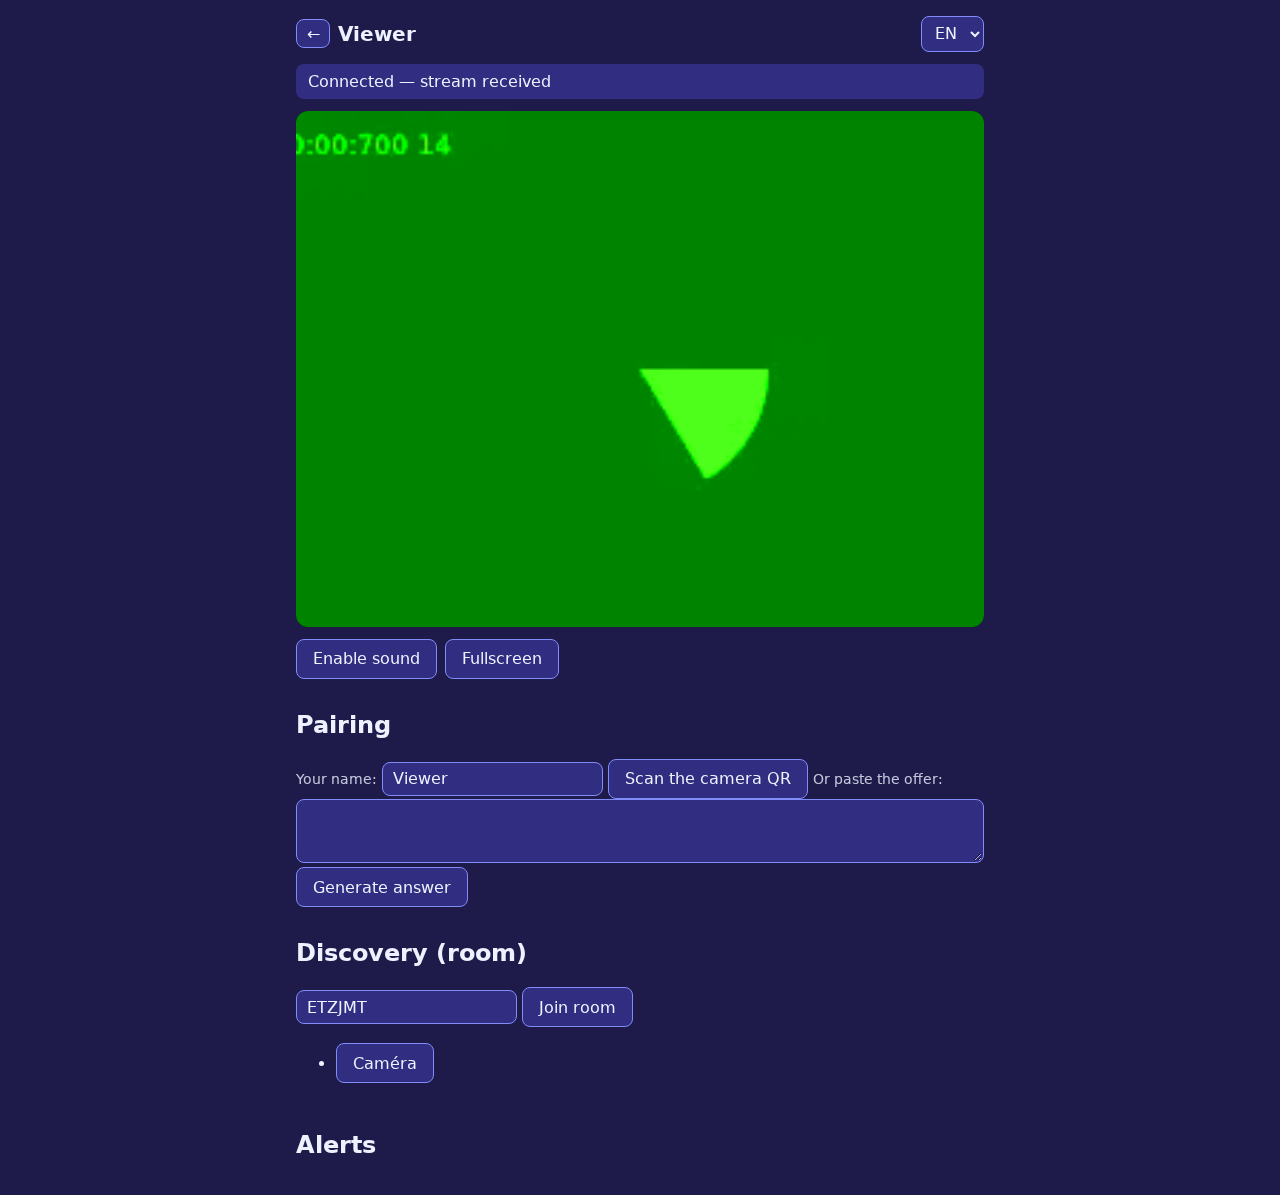
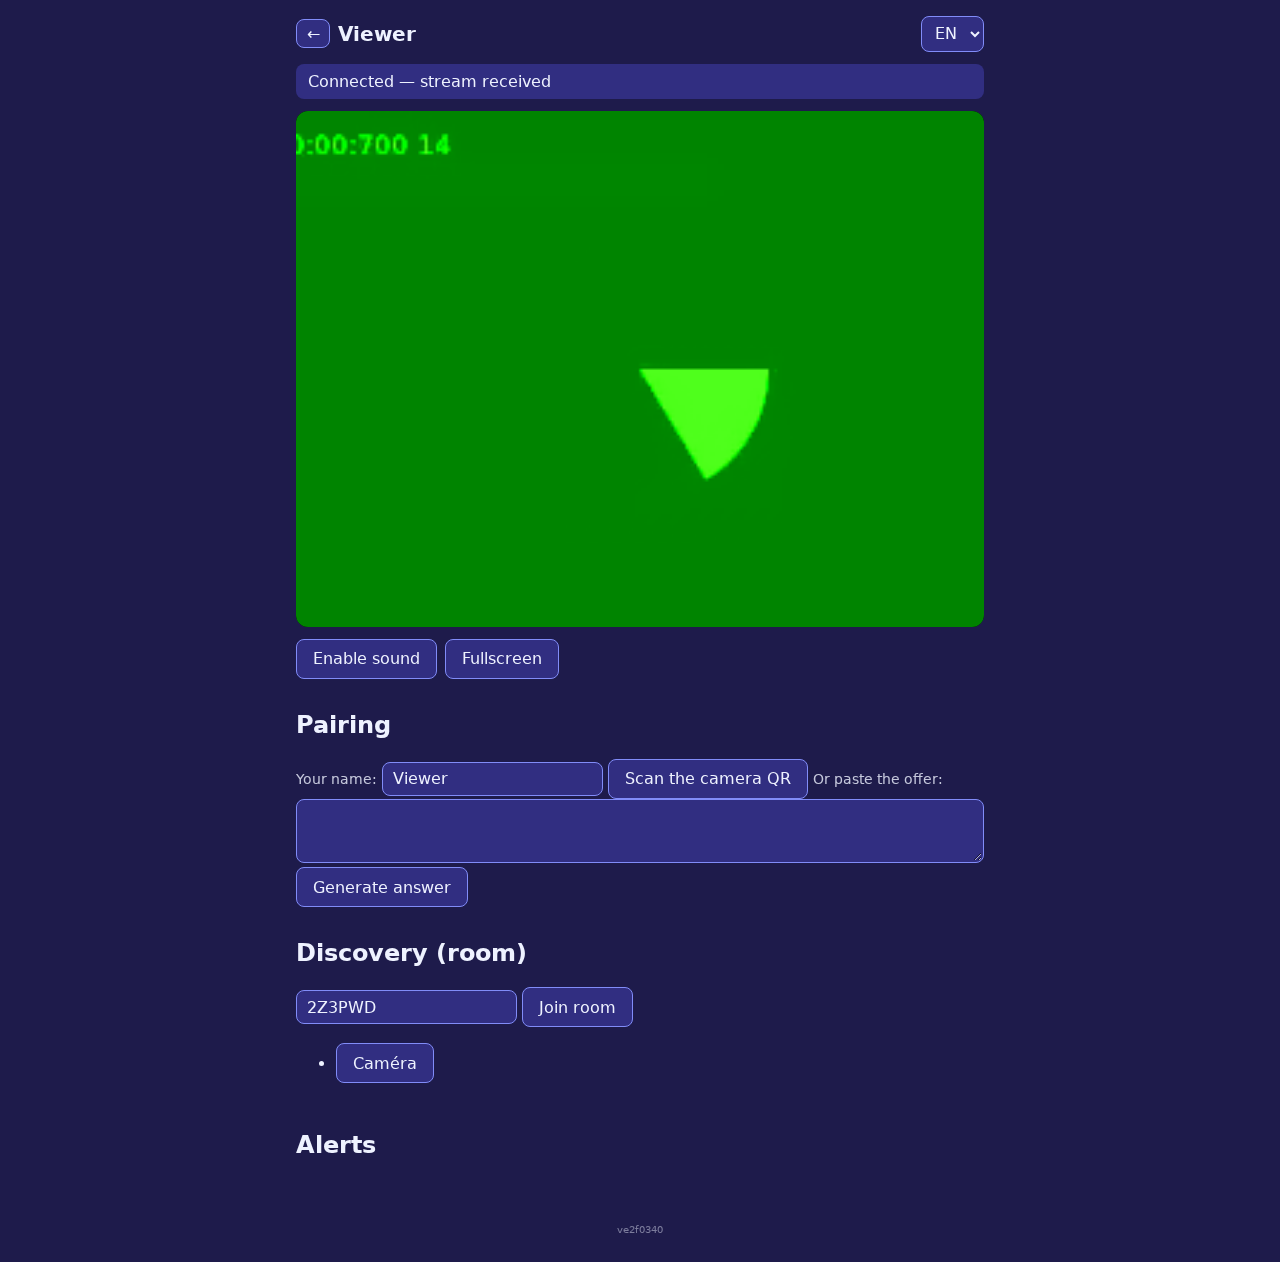
feat(I3.4): QR encore plus petit + PWA auto-mise à jour + badge de build
- slimSdpForQr : supprime ssrc/msid/rid/simulcast, ne garde que les candidats udp host ; appliqué à l'offre ET à la réponse QR (mungeSdpAggressive), QR affiché en 340px
- PWA : skipWaiting + clientsClaim, enregistrement SW manuel avec updateViaCache 'none' + update() à chaque chargement + rechargement auto quand un nouveau SW prend le contrôle (hors 1re install) : un vieux SW en cache ne bloque plus la mise à jour
- badge v<hash git> en bas de chaque page (define __BABYCAM_BUILD__) pour vérifier la version déployée
- tests unitaires (slim SDP, videoMimeFromSdp, build, pwa) + E2E qr-slim (payload < 1000 car., 1 seul QR décodé == payload, appairage complet A/V avec SDP allégé, badge) + 3 screenshots I3.4

Changed region(s): [[0.2188, 0.4954, 0.7812, 0.9598], [0.2188, 0.0, 0.7812, 0.1548], [0.5, 0.2787, 0.625, 0.4025]]

diff --git a/e2e/qr-slim.spec.ts b/e2e/qr-slim.spec.ts
@@ -1,0 +1,87 @@
+import { expect, test } from '@playwright/test';
+import jsQR from 'jsqr';
+import { decodeMessage, toQrChunks } from '../src/shared/signaling';
+import { shot } from './helpers';
+import { pairViaPaste, startCamera } from './pairing-helper';
+
+async function decodeCanvas(page: import('@playwright/test').Page, selector: string): Promise<string | null> {
+  const pixels = await page.evaluate((sel) => {
+    const canvas = document.querySelector(sel) as HTMLCanvasElement;
+    const ctx = canvas.getContext('2d')!;
+    const img = ctx.getImageData(0, 0, canvas.width, canvas.height);
+    return { data: Array.from(img.data), width: img.width, height: img.height };
+  }, selector);
+  const result = jsQR(new Uint8ClampedArray(pixels.data), pixels.width, pixels.height);
+  return result?.data ?? null;
+}
+
+test('I3.4 QR offre allégé : 1 seul QR décodable, SDP sans ssrc/extmap, candidats udp host, payload < 1000 car., badge de build', async ({ browser }) => {
+  const camCtx = await browser.newContext();
+  const cam = await camCtx.newPage();
+  await startCamera(cam);
+  const prev = await cam.locator('#offer-payload').inputValue().catch(() => '');
+  await cam.click('#pair-btn');
+  await cam.waitForFunction(
+    (p) => {
+      const el = document.querySelector<HTMLTextAreaElement>('#offer-payload');
+      return !!el && el.value.startsWith('BCAM1:') && el.value !== p;
+    },
+    prev,
+    { timeout: 30_000 },
+  );
+  const payload = await cam.locator('#offer-payload').inputValue();
+  expect(payload.length).toBeLessThan(1000);
+
+  const chunks = toQrChunks(payload);
+  expect(chunks.length).toBe(1);
+  const qrText = await decodeCanvas(cam, '#qr-canvas');
+  expect(qrText).toBe(chunks[0]);
+
+  const msg = decodeMessage(payload);
+  const lines = msg.sdp.split('\r\n');
+  expect(lines.find((l) => l.startsWith('m=video'))!.split(' ').slice(3)).toHaveLength(1);
+  expect(lines.find((l) => l.startsWith('m=audio'))!.split(' ').slice(3)).toHaveLength(1);
+  expect(msg.sdp).toContain('opus');
+  expect(msg.sdp).not.toContain('a=extmap:');
+  expect(msg.sdp).not.toContain('a=ssrc');
+  expect(msg.sdp).not.toContain('a=msid');
+  const cands = lines.filter((l) => l.startsWith('a=candidate:'));
+  expect(cands.length).toBeGreaterThan(0);
+  for (const c of cands) {
+    expect(c).toMatch(/\sudp\s/);
+    expect(c).toContain('typ host');
+  }
+
+  await expect(cam.locator('#build-badge')).toHaveText(/^v[0-9a-f]{7,}$/);
+  await shot(cam, 'I3.4-camera-qr-slim');
+  await camCtx.close();
+});
+
+test('I3.4 appairage complet avec SDP allégé (offre + réponse) : flux A/V OK', async ({ browser }) => {
+  const camCtx = await browser.newContext();
+  const viewCtx = await browser.newContext();
+  const cam = await camCtx.newPage();
+  const view = await viewCtx.newPage();
+  await startCamera(cam);
+  await pairViaPaste(cam, view);
+
+  const answer = await view.locator('#answer-payload').inputValue();
+  expect(answer.length).toBeLessThan(1000);
+  const amsg = decodeMessage(answer);
+  expect(amsg.sdp).not.toContain('a=ssrc');
+  expect(amsg.sdp).not.toContain('a=extmap:');
+
+  await expect(cam.locator('#viewers li')).toHaveCount(1);
+  await expect(cam.locator('#viewers li')).toContainText('Viewer');
+  await expect(view.locator('#status')).toContainText(/Connecté|Connected/i);
+  const kinds = await view.evaluate(() => {
+    const video = document.querySelector<HTMLVideoElement>('#remote')!;
+    return (video.srcObject as MediaStream).getTracks().map((track) => track.kind).sort();
+  });
+  expect(kinds).toEqual(['audio', 'video']);
+
+  await shot(cam, 'I3.4-camera-paired');
+  await shot(view, 'I3.4-viewer-stream');
+  await camCtx.close();
+  await viewCtx.close();
+});

diff --git a/src/shared/sdp.test.ts b/src/shared/sdp.test.ts
@@ -1,5 +1,5 @@
 import { describe, expect, it } from 'vitest';
-import { filterSdpByVideoCodec, mungeSdpAggressive } from './sdp';
+import { filterSdpByVideoCodec, mungeSdpAggressive, slimSdpForQr, videoMimeFromSdp } from './sdp';
 
 const SDP = [
   'v=0',
@@ -84,7 +84,7 @@ describe('mungeSdpAggressive (QR sans relais)', () => {
     expect(out).not.toContain('rtx');
     expect(out).not.toContain('a=extmap:');
     expect(out).toContain('a=mid:0');
-    expect(out).toContain('a=ssrc:1001 cname:abc');
+    expect(out).not.toContain('a=ssrc');
     expect(out).toContain('a=ice-ufrag:xyz');
   });
 
@@ -93,5 +93,60 @@ describe('mungeSdpAggressive (QR sans relais)', () => {
     const mVideo = out.split('\r\n').find((l) => l.startsWith('m=video'))!;
     expect(mVideo).toBe('m=video 9 UDP/TLS/RTP/SAVPF 96 97 98 99');
     expect(out).not.toContain('a=extmap:');
+  });
+});
+
+const SDP_CANDS = [
+  'v=0',
+  'm=video 9 UDP/TLS/RTP/SAVPF 96',
+  'a=rtpmap:96 VP8/90000',
+  'a=fingerprint:sha-256 AB:CD',
+  'a=ice-ufrag:xyz',
+  'a=mid:0',
+  'a=group:BUNDLE 0',
+  'a=msid-semantic: WMS',
+  'a=ssrc:1001 cname:abc',
+  'a=ssrc:1001 msid:track1',
+  'a=ssrc-group:FID 1001 1002',
+  'a=simulcast:send rid=1',
+  'a=rid:1 send',
+  'a=candidate:1 1 udp 2122260223 192.168.1.42 54321 typ host generation 0',
+  'a=candidate:2 1 tcp 1518280447 192.168.1.42 9 typ host generation 0',
+  'a=candidate:3 1 udp 1677729535 203.0.113.5 54321 typ srflx raddr 192.168.1.42 rport 54321 generation 0',
+  'a=end-of-candidates',
+].join('\r\n');
+
+describe('slimSdpForQr', () => {
+  it('supprime ssrc/msid/rid/simulcast et ne garde que les candidats udp host', () => {
+    const out = slimSdpForQr(SDP_CANDS);
+    expect(out).not.toContain('a=ssrc');
+    expect(out).not.toContain('a=msid');
+    expect(out).not.toContain('a=rid:');
+    expect(out).not.toContain('a=simulcast');
+    expect(out).toContain('a=fingerprint:sha-256 AB:CD');
+    expect(out).toContain('a=ice-ufrag:xyz');
+    expect(out).toContain('a=mid:0');
+    expect(out).toContain('a=group:BUNDLE 0');
+    expect(out).toContain('a=candidate:1 1 udp 2122260223 192.168.1.42 54321 typ host generation 0');
+    expect(out).not.toContain('tcp');
+    expect(out).not.toContain('srflx');
+    expect(out).toContain('a=end-of-candidates');
+  });
+});
+
+describe('videoMimeFromSdp', () => {
+  it('retourne le premier codec vidéo de la section m=video', () => {
+    expect(videoMimeFromSdp(SDP_FULL)).toBe('video/vp8');
+    expect(videoMimeFromSdp('v=0\r\nm=audio 9 UDP/TLS/RTP/SAVPF 111\r\na=rtpmap:111 opus/48000/2')).toBeUndefined();
+  });
+});
+
+describe('mungeSdpAggressive (slim QR)', () => {
+  it('applique aussi le slimming (ssrc supprimé, candidats filtrés)', () => {
+    const out = mungeSdpAggressive(SDP_CANDS, 'video/VP8');
+    expect(out.split('\r\n').find((l) => l.startsWith('m=video'))).toBe('m=video 9 UDP/TLS/RTP/SAVPF 96');
+    expect(out).not.toContain('a=ssrc');
+    expect(out).not.toContain('tcp');
+    expect(out).not.toContain('srflx');
   });
 });

diff --git a/src/pages/viewer/main.ts b/src/pages/viewer/main.ts
@@ -2,7 +2,9 @@ import '../../shared/style.css';
 import { applyTranslations, initLangSelect, t } from '../../shared/i18n';
 import { createChunkCollector, decodeMessage, decodeRoom, encodeMessage, toQrChunks, type SignalMessage } from '../../shared/signaling';
 import { QrScanner } from '../../shared/scanner';
-import { QrCarousel, qs } from '../../shared/ui';
+import { QrCarousel, qs, setBuildBadge } from '../../shared/ui';
+import { registerPwa } from '../../shared/pwa';
+import { mungeSdpAggressive, videoMimeFromSdp } from '../../shared/sdp';
 import { iceServersFromLocation, ViewerPeer, type DataMessage } from '../../shared/webrtc';
 import { playAlertSound, pushAlertHistory, showAlertBanner, vibrate } from '../../shared/alerts';
 import { RelayClient, relayUrlFromLocation } from '../../shared/relay';
@@ -10,6 +12,8 @@ import { RelayClient, relayUrlFromLocation } from '../../shared/relay';
 applyTranslations();
 const langSelect = document.querySelector<HTMLSelectElement>('#lang-select');
 if (langSelect) initLangSelect(langSelect);
+registerPwa();
+setBuildBadge();
 
 const status = qs<HTMLParagraphElement>('#status');
 const remote = qs<HTMLVideoElement>('#remote');
@@ -127,7 +131,8 @@ async function applyOffer(): Promise<void> {
   peer = makePeer([]);
   try {
     const answer = await peer.acceptOffer(msg);
-    const message = encodeMessage(answer);
+    const slim = { ...answer, sdp: mungeSdpAggressive(answer.sdp, videoMimeFromSdp(msg.sdp)) };
+    const message = encodeMessage(slim);
     answerPayload.value = message;
     qrBoxAnswer.hidden = false;
     answerCarousel?.stop();

diff --git a/src/shared/sdp.ts b/src/shared/sdp.ts
@@ -59,6 +59,32 @@ export function filterSdpByVideoCodec(sdp: string, mimeType: string): string {
   return mungeSdp(sdp, { videoMime: mimeType });
 }
 
+const SLIM_DROP_PREFIXES = ['a=ssrc', 'a=msid', 'a=rid:', 'a=simulcast'];
+
+export function slimSdpForQr(sdp: string): string {
+  const out: string[] = [];
+  for (const line of sdp.split('\r\n')) {
+    if (SLIM_DROP_PREFIXES.some((p) => line.startsWith(p))) continue;
+    if (line.startsWith('a=candidate:') && (!/\sudp\s/.test(line) || !line.includes('typ host'))) continue;
+    out.push(line);
+  }
+  return out.join('\r\n');
+}
+
 export function mungeSdpAggressive(sdp: string, videoMime?: string): string {
-  return mungeSdp(sdp, { videoMime, audioMime: 'audio/opus', dropExtmap: true });
+  return slimSdpForQr(mungeSdp(sdp, { videoMime, audioMime: 'audio/opus', dropExtmap: true }));
+}
+
+export function videoMimeFromSdp(sdp: string): string | undefined {
+  let inVideo = false;
+  for (const line of sdp.split('\r\n')) {
+    if (line.startsWith('m=')) {
+      inVideo = line.startsWith('m=video');
+      continue;
+    }
+    if (!inVideo) continue;
+    const m = /^a=rtpmap:\d+\s+([^/\s]+)\/\d+/.exec(line);
+    if (m) return `video/${m[1].toLowerCase()}`;
+  }
+  return undefined;
 }

diff --git a/src/pages/camera/main.ts b/src/pages/camera/main.ts
@@ -2,7 +2,8 @@ import '../../shared/style.css';
 import { applyTranslations, initLangSelect, t } from '../../shared/i18n';
 import { WakeLockManager } from '../../shared/wakelock';
 import { createChunkCollector, decodeMessage, encodeMessage, encodeRoom, toQrChunks } from '../../shared/signaling';
-import { QrCarousel, qs } from '../../shared/ui';
+import { QrCarousel, qs, setBuildBadge } from '../../shared/ui';
+import { registerPwa } from '../../shared/pwa';
 import { QrScanner } from '../../shared/scanner';
 import { CameraPeers, iceServersFromLocation, type AlertKind } from '../../shared/webrtc';
 import { NoiseDetector } from '../../shared/detection/noise';
@@ -13,6 +14,8 @@ import type { SignalMessage } from '../../shared/signaling';
 applyTranslations();
 const langSelect = document.querySelector<HTMLSelectElement>('#lang-select');
 if (langSelect) initLangSelect(langSelect);
+registerPwa();
+setBuildBadge();
 
 const preview = qs<HTMLVideoElement>('#preview');
 const status = qs<HTMLParagraphElement>('#status');

diff --git a/vite.config.ts b/vite.config.ts
@@ -1,16 +1,30 @@
+import { execSync } from 'node:child_process';
 import { fileURLToPath } from 'node:url';
 import { defineConfig } from 'vitest/config';
 import { VitePWA } from 'vite-plugin-pwa';
 
+function buildId(): string {
+  try {
+    return execSync('git rev-parse --short HEAD').toString().trim();
+  } catch {
+    return new Date().toISOString();
+  }
+}
+
 export default defineConfig({
   base: '/babycam/',
+  define: { __BABYCAM_BUILD__: JSON.stringify(buildId()) },
   plugins: [
     VitePWA({
-      registerType: 'autoUpdate',
+      injectRegister: false,
       includeAssets: ['icons/*.png', 'manifest.webmanifest'],
       manifest: false,
       devOptions: { enabled: false },
-      workbox: { globPatterns: ['**/*.{js,css,html,png,webmanifest,svg}'] },
+      workbox: {
+        globPatterns: ['**/*.{js,css,html,png,webmanifest,svg}'],
+        skipWaiting: true,
+        clientsClaim: true,
+      },
     }),
   ],
   build: {

diff --git a/src/shared/pwa.ts b/src/shared/pwa.ts
@@ -1,0 +1,21 @@
+export function registerPwa(): void {
+  if (typeof navigator === 'undefined' || !('serviceWorker' in navigator)) return;
+  if (!import.meta.env.PROD) return;
+  const hadController = !!navigator.serviceWorker.controller;
+  window.addEventListener('load', () => {
+    const base = import.meta.env.BASE_URL;
+    void navigator.serviceWorker
+      .register(`${base}sw.js`, { scope: base, updateViaCache: 'none' })
+      .then((reg) => {
+        void reg.update().catch(() => undefined);
+        let reloading = false;
+        navigator.serviceWorker.addEventListener('controllerchange', () => {
+          if (!hadController) return;
+          if (reloading) return;
+          reloading = true;
+          window.location.reload();
+        });
+      })
+      .catch(() => undefined);
+  });
+}

diff --git a/src/shared/ui.ts b/src/shared/ui.ts
@@ -1,9 +1,15 @@
+import { BUILD_ID } from './build';
 import { renderQr } from './qr';
 
 export function qs<T extends Element>(selector: string): T {
   const el = document.querySelector<T>(selector);
   if (!el) throw new Error(`élément introuvable: ${selector}`);
   return el;
+}
+
+export function setBuildBadge(): void {
+  const el = document.querySelector('#build-badge');
+  if (el) el.textContent = `v${BUILD_ID}`;
 }
 
 export class QrCarousel {

diff --git a/src/pages/home/main.ts b/src/pages/home/main.ts
@@ -1,6 +1,10 @@
 import '../../shared/style.css';
 import { applyTranslations, initLangSelect } from '../../shared/i18n';
+import { registerPwa } from '../../shared/pwa';
+import { setBuildBadge } from '../../shared/ui';
 
 applyTranslations();
 const langSelect = document.querySelector<HTMLSelectElement>('#lang-select');
 if (langSelect) initLangSelect(langSelect);
+registerPwa();
+setBuildBadge();

diff --git a/src/shared/style.css b/src/shared/style.css
@@ -138,11 +138,19 @@ input[type='range'] {
 
 #qr-canvas,
 #qr-canvas-answer {
-  width: min(300px, 100%);
+  width: min(340px, 94vw);
   height: auto;
   image-rendering: pixelated;
   background: #fff;
   border-radius: 0.5rem;
+}
+
+.build-badge {
+  margin-top: 2rem;
+  font-size: 0.65rem;
+  opacity: 0.45;
+  text-align: center;
+  font-family: ui-monospace, monospace;
 }
 
 #flash {

diff --git a/camera.html b/camera.html
@@ -64,6 +64,7 @@
         <label class="hint" data-i18n="camera.motionSens" for="motion-sens">Sensibilité mouvement</label>
         <input id="motion-sens" type="range" min="1" max="100" value="50" />
       </section>
+      <p id="build-badge" class="build-badge"></p>
     </main>
     <div id="flash" hidden></div>
     <script type="module" src="./src/pages/camera/main.ts"></script>

diff --git a/src/shared/build.test.ts b/src/shared/build.test.ts
@@ -1,0 +1,9 @@
+import { describe, expect, it } from 'vitest';
+import { BUILD_ID } from './build';
+
+describe('BUILD_ID', () => {
+  it('est une chaîne non vide (hash git injecté via define au build)', () => {
+    expect(typeof BUILD_ID).toBe('string');
+    expect(BUILD_ID.length).toBeGreaterThan(0);
+  });
+});
